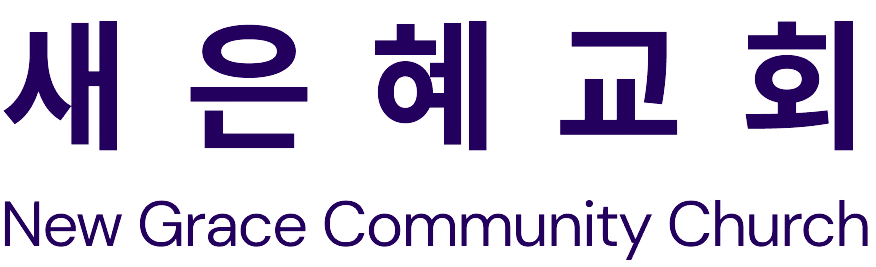
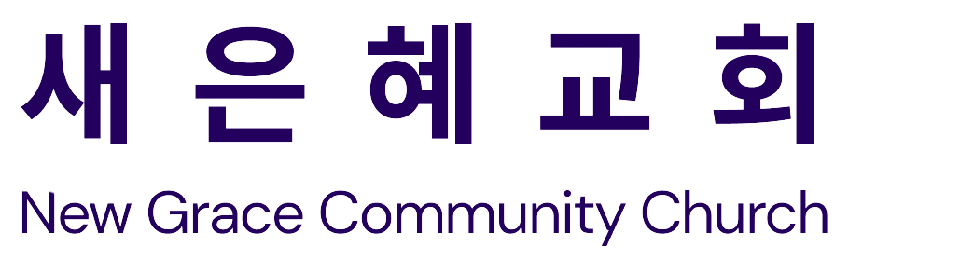
style(Home): Improve Home page layout and styling
This commit enhances the styling of the Home page, improving its layout and visual appearance. Key changes include:

- Organizing the layout into a left side (Main Header) and a right side (Image) for better visual balance.
- Refactoring the HEADINGS section to use relative positioning for responsiveness and ease of use.
- Utilizing the `mx-auto` and `w-5/6` classes to provide padding on the sides of the content, enhancing its presentation.

Changed region(s): [[0.1849, 0.0615, 0.9863, 0.5846], [0.0, 0.7385, 1.0, 0.9846], [0.0, 0.0615, 0.1541, 0.5846]]

diff --git a/src/scenes/home/index.tsx b/src/scenes/home/index.tsx
@@ -11,26 +11,32 @@ type Props = {
 };
 
 function Home({ setSelectedPage }: Props) {
-  const isAboveMediumScreens = useMediaQuery("(min-width: 1060px)");
+  const isAboveMediumScreens = useMediaQuery("(min-width: 1113px)");
 
   return (
     <section id="home" className="gap-16 bg-gray-20 py-10 md:h-full md:pb-0">
       {/* IMAGE AND MAIN HEADER */}
-      <div>
+      <div className="mx-auto w-5/6 items-center justify-center md:flex md:h-5/6">
         {/* MAIN HEADER */}
-        <div>
+        <div className="z-10 mt-32 md:basis-3/5">
           {/* HEADINGS */}
-          <div>
-            <div>
-              <div>
-                <img src={HomePageText} alt="home-page-text" />
+          <div className="md:-mt-19">
+            <div className="relative">
+              <div className="md:before:content-gracetext before:absolute before:-left-16 before:-top-40 before:z-[-1] before:opacity-50">
+                <img
+                  src={HomePageText}
+                  alt="home-page-text"
+                  className="w-full max-w-lg"
+                />
               </div>
             </div>
-            <p>Join Us At 12:30pm Every Sunday Afternoon.</p>
+            <p className="mt-8 text-sm">
+              Join Us At 12:30pm Every Sunday Afternoon.
+            </p>
           </div>
 
           {/* ACTIONS */}
-          <div>
+          <div className="mt-8 flex items-center gap-8">
             <ActionButton setSelectedPage={setSelectedPage}>
               Join Us Sunday
             </ActionButton>
@@ -47,17 +53,21 @@ function Home({ setSelectedPage }: Props) {
         </div>
 
         {/* IMAGE */}
-        <div>
-          <img src={HomePageGraphic} alt="home-page-graphic" />
+        <div className="flex basis-3/5 justify-center md:z-10 md:ml-40 mt-16 md:justify-items-end">
+          <img
+            src={HomePageGraphic}
+            alt="home-page-graphic"
+            className=" max-w-md rounded-3xl border-4"
+          />
         </div>
       </div>
 
       {/* MESSAGE */}
       {isAboveMediumScreens && (
-        <div>
-          <div>
-            <div>
-              <img src={Character} alt="caricature" />
+        <div className="h-[150px] w-full bg-primary-100">
+          <div className="mx-auto w-5/6">
+            <div className="flex w-3/5 items-center justify-between gap-8 ">
+              <img src={Character} alt="caricature" className="h-36" />
             </div>
           </div>
         </div>

diff --git a/src/scenes/navbar/index.tsx b/src/scenes/navbar/index.tsx
@@ -16,7 +16,7 @@ const Navbar = ({ isTopOfPage, selectedPage, setSelectedPage }: Props) => {
   // reusable tailwind classes
   const flexBetween = "flex items-center justify-between";
   const [isMenuToggled, setIsMenuToggled] = useState<boolean>(false);
-  const isAboveMediumScreens = useMediaQuery("(min-width: 1060px)"); // boolean
+  const isAboveMediumScreens = useMediaQuery("(min-width: 1113px)"); // boolean
   const navbarBackground = isTopOfPage ? "" : "bg-primary-100 drop-shadow";
 
   return (

diff --git a/tailwind.config.js b/tailwind.config.js
@@ -24,7 +24,7 @@ export default {
         montserrat: ["Montserrat", "sans-serif"],
       },
       content: {
-        evolvetext: "url('./assets/GraceText.png')",
+        gracetext: "url('./assets/GraceText1.png')",
         logo: "url('./assets/logo.png')",
         corner: "url('./assets/Corner.png')",
       },
@@ -32,7 +32,7 @@ export default {
     screens: {
       xs: "480px",
       sm: "768px",
-      md: "1060px",
+      md: "1113px",
     },
   },
   plugins: [],
